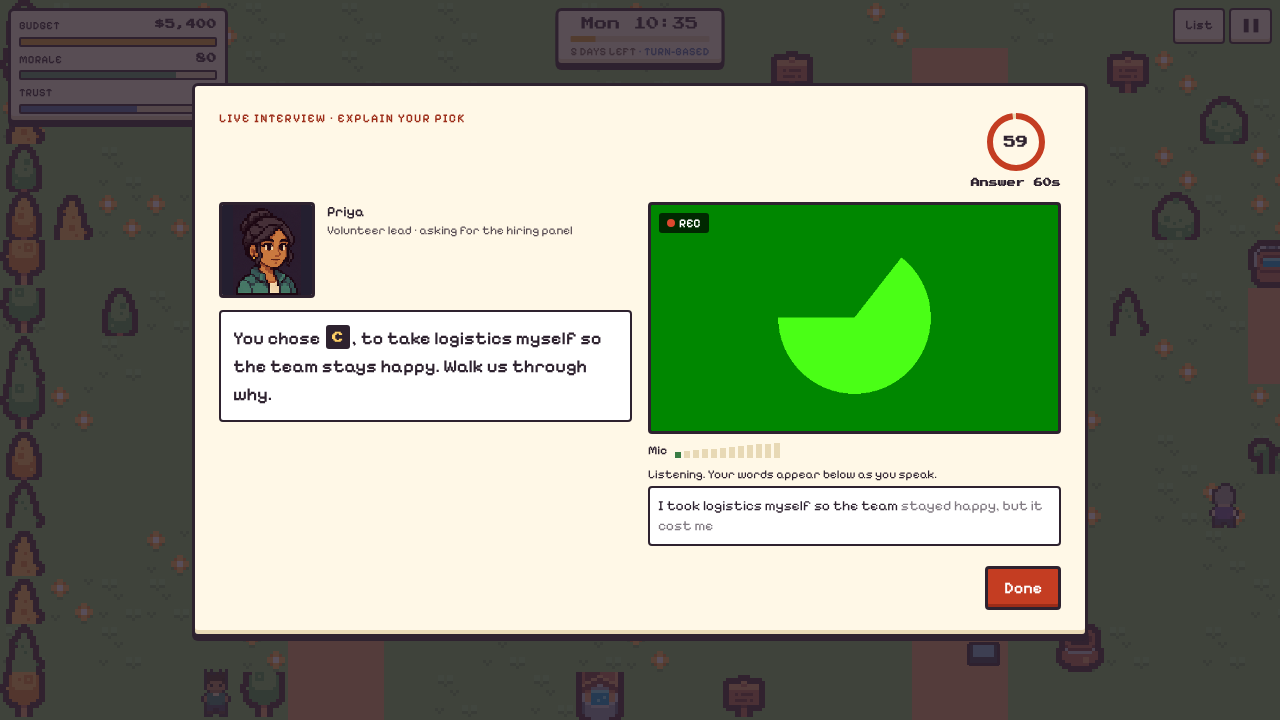
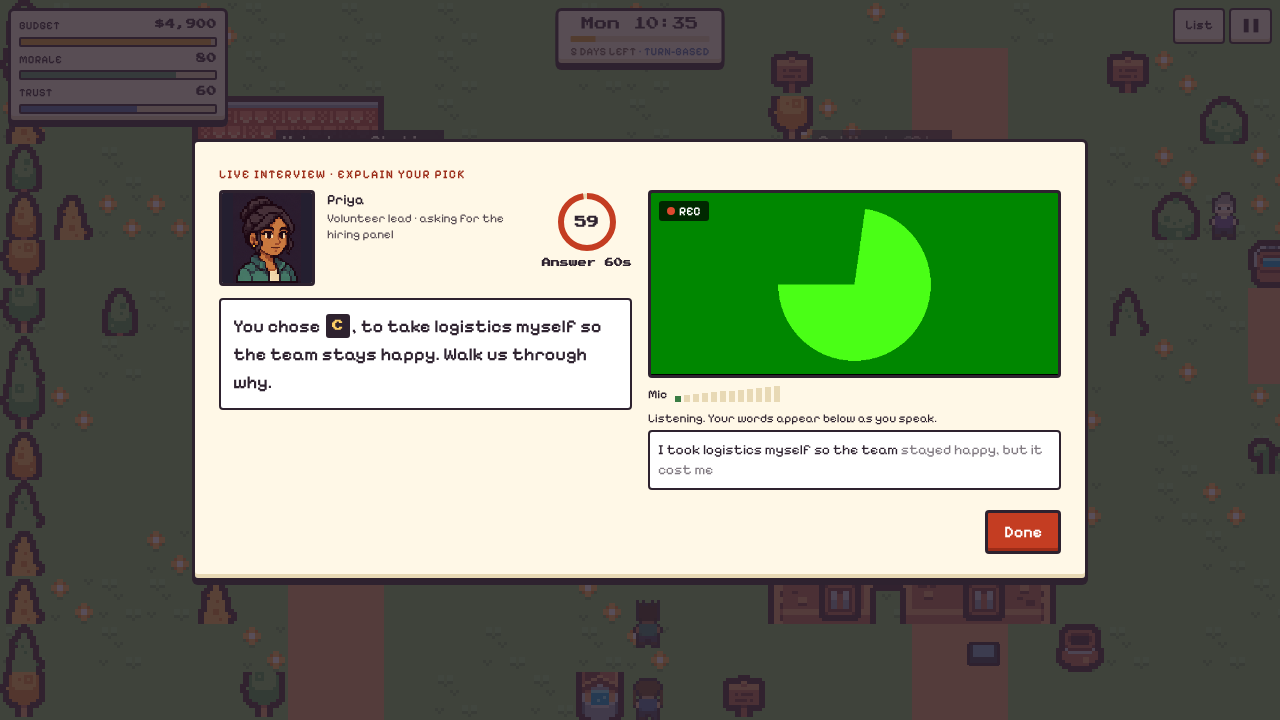
Checkpoint game polish: props never interview (hiring panel instead of the HQ laptop); one mode switch under the preview; think time said once; timer beside the interviewer and start button in the column, so the modal is about 140 px shorter at 1280x720
Claude-Session: https://claude.ai/code/session_0154mYPUEnFKQvVKtNCw59qM

diff --git a/components/checkpoint/Checkpoint.tsx b/components/checkpoint/Checkpoint.tsx
@@ -3,6 +3,7 @@
 import { motion } from "framer-motion";
 import { useCallback, useEffect, useRef, useState } from "react";
 import { Portrait } from "@/components/game2/Portrait";
+import manifest from "@/public/assets/portraits/manifest.json";
 import { useFocusTrap } from "@/lib/a11y/focusTrap";
 import type { CardCheckpoint } from "@/lib/card/types";
 import { UNSUPPORTED_MESSAGE } from "@/lib/checkpoint/speech";
@@ -72,6 +73,9 @@ function useCountdown(seconds: number, running: boolean, onZero: () => void) {
   }, [seconds, running]);
   return left;
 }
+
+const portraitIds = new Set((manifest as { portraits: { id: string }[] }).portraits.map((x) => x.id));
+const hasPortrait = (id: string) => portraitIds.has(id);
 
 const hasVideo = (s: MediaStream | null) => !!s?.getVideoTracks().some((t) => t.readyState === "live");
 
@@ -304,13 +308,34 @@ export function Checkpoint(p: Props) {
     </button>
   );
 
+  const startBtn = (
+    <button onClick={() => void beginAnswer()} className={s.primary} autoFocus>
+      I&apos;m ready, start answering
+    </button>
+  );
+
+  const thinkNotes = (
+    <>
+      {mode !== "text" && !speechSupported() && (
+        <p className="text-sm" role="note" data-testid="speech-unsupported">
+          {UNSUPPORTED_MESSAGE}
+        </p>
+      )}
+      {deviceMsg && (
+        <p className="text-sm" role="status" data-testid="device-note">
+          {deviceMsg}
+        </p>
+      )}
+    </>
+  );
+
   const label = p.title ?? (p.kind === "real_life" ? "Real-life checkpoint" : p.kind === "follow_up" ? "One follow-up" : "Checkpoint");
   const recording = phase === "answer" && mode !== "text";
 
   const modePicker = (
-    <fieldset>
-      <legend className="text-sm font-medium">Answer by</legend>
-      <div className="mt-2 flex flex-wrap gap-2" role="radiogroup">
+    <fieldset className={cn(game && "flex flex-wrap items-center gap-x-3 gap-y-2")}>
+      <legend className={cn("text-sm font-medium", game && "float-left mr-3 py-1.5")}>Answer by</legend>
+      <div className={cn("flex flex-wrap gap-2", !game && "mt-2")} role="radiogroup">
         {(["video", "voice", "text"] as Mode[]).map((m) => (
           <label key={m} className={cn(s.chip(mode === m), p.textOnly && m !== "text" && "opacity-40")}>
             <input type="radio" name={`mode-${p.id}`} className="sr-only" value={m} checked={mode === m} disabled={p.textOnly && m !== "text"} onChange={() => (setDeviceMsg(null), setMode(m))} />
@@ -334,7 +359,7 @@ export function Checkpoint(p: Props) {
         </p>
       )}
       {mode === "video" && (
-        <div className={cn("relative aspect-video h-32 max-w-full overflow-hidden bg-black sm:h-auto sm:w-full", game ? "rounded-[4px] border-[3px] border-[#2e222f]" : "rounded-2xl")}>
+        <div className={cn("relative aspect-video h-32 max-w-full overflow-hidden bg-black sm:h-auto sm:max-h-[26svh] sm:w-full", game ? "rounded-[4px] border-[3px] border-[#2e222f]" : "rounded-2xl")}>
           <video ref={videoRef} autoPlay muted playsInline className="h-full w-full -scale-x-100 object-cover" aria-label="Your camera preview" data-testid="camera-preview" />
           {!hasVideo(r.stream) && <p className="absolute inset-0 flex items-center justify-center p-3 text-center text-sm text-white/80">Starting your camera…</p>}
           {recording && (
@@ -354,16 +379,9 @@ export function Checkpoint(p: Props) {
       )}
       {mode !== "text" && <MicMeter level={r.level} pixel={game} />}
       {phase === "think" && game && mode === "video" && (
-        // Phones: the "Answer by" choices right below already do this; skip the duplicate row to save height.
-        <div className="hidden flex-wrap gap-2 sm:flex">
-          <span className="self-center text-xs">Rather not be on camera?</span>
-          <button className={cn(s.plain, "min-h-8 px-2 py-0 text-sm")} onClick={() => (setDeviceMsg(null), setMode("voice"))} data-testid="switch-voice">
-            Voice instead
-          </button>
-          <button className={cn(s.plain, "min-h-8 px-2 py-0 text-sm")} onClick={() => (setDeviceMsg(null), setMode("text"))} data-testid="switch-text">
-            Text instead
-          </button>
-        </div>
+        <p className="text-xs" data-testid="camera-hint">
+          Rather not be on camera? Pick voice or text below.
+        </p>
       )}
       {recording && quietS > 5 && (
         <p className="text-xs" role="status" data-testid="quiet-hint">
@@ -374,19 +392,30 @@ export function Checkpoint(p: Props) {
     </div>
   );
 
+  // Props (the HQ laptop, an old report) don't interview anyone: the hiring panel asks instead.
+  const person = p.interviewer?.portrait && hasPortrait(p.interviewer.portrait) ? p.interviewer : undefined;
+  const ring =
+    phase === "think" ? (
+      <Ring left={thinkLeft} total={t.thinkS} label="Think time" caption={`Think ${t.thinkS}s`} pixel={game} />
+    ) : phase === "answer" ? (
+      <Ring left={answerLeft} total={t.answerS} label="Answer time" caption={`Answer ${t.answerS}s`} pixel={game} />
+    ) : null;
+
   const interviewerSide = game && (
     <div className="flex items-start gap-3" data-testid="interviewer">
       <div className="shrink-0">
-        {p.interviewer?.portrait ? (
-          <Portrait id={p.interviewer.portrait} className="h-12 w-12 sm:h-24 sm:w-24 rounded-[4px] border-[3px] border-[#2e222f]" />
+        {person ? (
+          <Portrait id={person.portrait!} className="h-12 w-12 sm:h-24 sm:w-24 rounded-[4px] border-[3px] border-[#2e222f]" />
         ) : (
           <PanelPortrait className="h-12 w-12 sm:h-24 sm:w-24 rounded-[4px] border-[3px] border-[#2e222f]" />
         )}
       </div>
-      <div className="min-w-0">
-        <p className="text-sm font-semibold">{p.interviewer?.name ?? "Hiring panel"}</p>
-        <p className="text-xs opacity-80">{p.interviewer?.role ?? (p.kind === "real_life" ? "Last question: something real" : p.kind === "follow_up" ? "One follow-up on what you said" : "Asking about the choice you just made")}</p>
+      <div className="min-w-0 flex-1">
+        <p className="text-sm font-semibold">{person?.name ?? "Hiring panel"}</p>
+        <p className="text-xs opacity-80">{person?.role ?? (p.kind === "real_life" ? "Last question: something real" : p.kind === "follow_up" ? "One follow-up on what you said" : "Asking about the choice you just made")}</p>
       </div>
+      {/* In the game the timer sits beside the interviewer, so the modal needs no header row. */}
+      <div className="ml-auto">{ring}</div>
     </div>
   );
 
@@ -419,44 +448,46 @@ export function Checkpoint(p: Props) {
               </div>
             )}
           </div>
-          {phase === "think" && <Ring left={thinkLeft} total={t.thinkS} label="Think time" caption={`Think ${t.thinkS}s`} pixel={game} />}
-          {phase === "answer" && <Ring left={answerLeft} total={t.answerS} label="Answer time" caption={`Answer ${t.answerS}s`} pixel={game} />}
+          {!game && ring}
         </div>
 
         {game && (
-          <div className={cn("mt-3 grid gap-4", (phase === "think" || phase === "answer") && "sm:grid-cols-2")}>
+          <div className={cn("mt-2 grid gap-4", (phase === "think" || phase === "answer") && "sm:grid-cols-2")}>
             <div className="space-y-3">
               {interviewerSide}
               <div className={cn("relative p-3", s.well)}>
                 <TypedQuestion text={p.question} className="text-base sm:text-lg" pixel />
               </div>
+              {phase === "think" && (
+                <>
+                  {/* The ring already says "Think 15s"; this line only adds the answer time. */}
+                  <p className="text-sm opacity-80" data-testid="think-note">
+                    Then <Num pixel>{t.answerS}</Num> seconds to answer.{firstCheck && mode === "video" ? "" : " Only your words are used, never your face or voice."}
+                  </p>
+                  {thinkNotes}
+                </>
+              )}
             </div>
-            {(phase === "think" || phase === "answer") && <div className="space-y-3">{mode !== "text" ? you : phase === "think" ? <TextNote /> : null}</div>}
+            {(phase === "think" || phase === "answer") && (
+              <div className="space-y-3">
+                {mode !== "text" ? you : phase === "think" ? <TextNote /> : null}
+                {phase === "think" && modePicker}
+                {/* Primary action bottom right, inside the column so the modal stays short. */}
+                {phase === "think" && <div className="flex justify-end">{startBtn}</div>}
+              </div>
+            )}
           </div>
         )}
 
-        {phase === "think" && (
+        {phase === "think" && !game && (
           <div className="mt-5 space-y-4">
             <p className="text-sm opacity-80">
-              Take <Num pixel={game}>{t.thinkS}</Num> seconds to think. You then have <Num pixel={game}>{t.answerS}</Num> seconds.{firstCheck && mode === "video" ? "" : " Only your words are used, never your face or voice."}
+              Take {t.thinkS} seconds to think. You then have {t.answerS} seconds. Only your words are used, never your face or voice.
             </p>
             {modePicker}
-            {mode !== "text" && !speechSupported() && (
-              <p className="text-sm" role="note" data-testid="speech-unsupported">
-                {UNSUPPORTED_MESSAGE}
-              </p>
-            )}
-            {!game && mode !== "text" && <MicMeter level={r.level} />}
-            {deviceMsg && (
-              <p className="text-sm" role="status" data-testid="device-note">
-                {deviceMsg}
-              </p>
-            )}
-            <div className={cn(game && "flex justify-end")}>
-              <button onClick={() => void beginAnswer()} className={s.primary} autoFocus>
-                I&apos;m ready, start answering
-              </button>
-            </div>
+            {thinkNotes}
+            {mode !== "text" && <MicMeter level={r.level} />}
+            {startBtn}
           </div>
         )}
 

diff --git a/tests/e2e/checkpoint-media.spec.ts b/tests/e2e/checkpoint-media.spec.ts
@@ -201,14 +201,17 @@ test("game: the checkpoint pops up as a video interview with the camera on by de
   await expect(cp.getByTestId("choice-letter")).toHaveText("C");
   await expect(cp.getByTestId("checkpoint-question")).toContainText("Walk us through why.");
   await expect(cp.getByTestId("timer-label")).toHaveText("Think 30s");
-  await expect(cp.getByText("Take 30 seconds to think.")).toBeVisible();
+  await expect(cp.getByTestId("think-note")).toContainText("Then 120 seconds to answer.");
   await expect(cp.getByTestId("camera-check")).toContainText("Camera check", { timeout: 15_000 });
   await expect.poll(() => cp.getByTestId("camera-preview").evaluate((v: HTMLVideoElement) => v.videoWidth), { timeout: 10_000 }).toBeGreaterThan(0);
   // The mic meter moves with the fake device's beep.
   await expect.poll(async () => Number(await cp.getByTestId("mic-meter").getAttribute("data-level")), { timeout: 10_000, intervals: [100] }).toBeGreaterThan(0);
   // Text is always one click away (hard rule: no camera needed).
   await expect(cp.locator('input[value="text"]')).toBeEnabled();
-  if ((page.viewportSize()?.width ?? 0) >= 640) await expect(cp.getByTestId("switch-text")).toBeVisible();
+  // One way to switch: the "Answer by" choices under the preview, with a hint (no duplicate buttons).
+  await expect(cp.getByTestId("camera-hint")).toContainText("Rather not be on camera?");
+  await expect(cp.getByTestId("switch-text")).toHaveCount(0);
+  await expect(cp.getByRole("group", { name: "Answer by" })).toBeVisible();
 
   // Keyboard only: the start button has focus.
   await expect(cp.getByRole("button", { name: /start answering/i })).toBeFocused();
@@ -259,7 +262,8 @@ test("game: timer accommodation still applies in the interview", async ({ page }
     if (!localStorage.getItem("tp:profile")) localStorage.setItem("tp:profile", JSON.stringify({ accommodations: { timeMultiplier: 1.5, textOnly: false } }));
   });
   const cp = await toGameCheckpoint(page);
-  await expect(cp.getByText(/Take 23 seconds to think\. You then have 90 seconds\./)).toBeVisible();
+  await expect(cp.getByTestId("timer-label")).toHaveText("Think 23s");
+  await expect(cp.getByTestId("think-note")).toContainText("Then 90 seconds to answer.");
 });
 
 // The 60 s stage demo: the recovery pick is the run's first checkpoint, so the camera check happens there.
@@ -292,6 +296,9 @@ test("demo path: camera already allowed, the first checkpoint opens on camera wi
   const cp = await toDemoCheckpoint(page);
   await expect(cp.getByTestId("checkpoint-question")).toHaveAttribute("aria-label", /^You chose B, to keep Saturday and Sunday/);
   await expect(cp.getByTestId("choice-letter")).toHaveText("B");
+  // The recovery plan comes from the HQ laptop, a prop: the hiring panel asks instead.
+  await expect(cp.getByTestId("interviewer")).toContainText("Hiring panel");
+  await expect(cp.getByTestId("interviewer")).not.toContainText(/laptop/i);
   await expect(cp).toHaveAttribute("data-mode", "video");
   await expect(cp.getByTestId("camera-check")).toContainText("Camera check", { timeout: 5000 });
   // The think timer is already running: no extra click, no waiting on a prompt.
